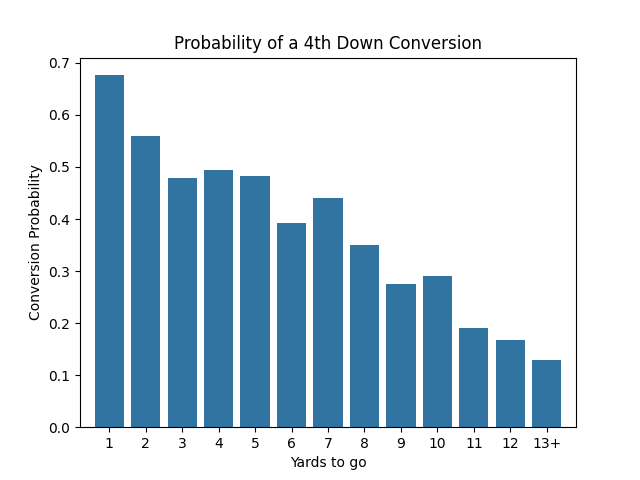
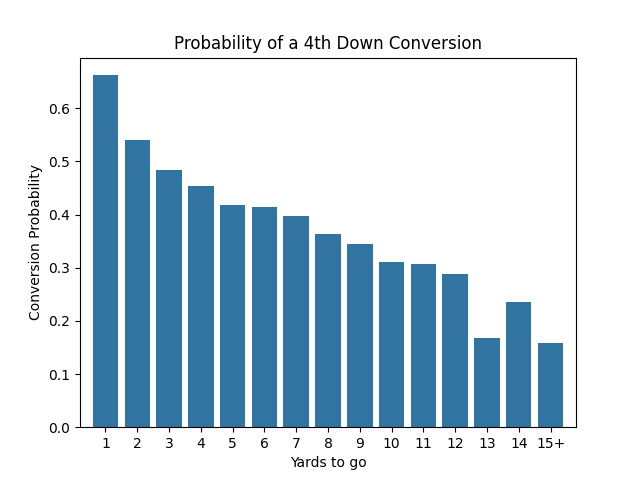
fix: fourth with all years and agg 15+ instead of 13+

diff --git a/fourth_convert.py b/fourth_convert.py
@@ -7,6 +7,30 @@ from matplotlib.ticker import FuncFormatter
 
 
 CACHE = "cache/"
+YEARS = [
+    2002,
+    2003,
+    2004,
+    2005,
+    2006,
+    2007,
+    2008,
+    2009,
+    2010,
+    2011,
+    2012,
+    2013,
+    2014,
+    2015,
+    2016,
+    2017,
+    2018,
+    2019,
+    2020,
+    2021,
+    2022,
+    2023,
+]
 
 
 FOURTH_GO_FOR_IT = [cols.PlayType.PASS, cols.PlayType.RUN]
@@ -25,17 +49,17 @@ def fourth_down(df: pandas.DataFrame) -> pandas.DataFrame:
 
 def fourth_agg_ten(df: pandas.DataFrame) -> pandas.DataFrame:
     """
-    Aggregate all 4th and 10 or greater to the same bucket.
+    Aggregate all 4th and 15 or greater to the same bucket.
     """
-    df[cols.Ydstogo.header] = (df[cols.Ydstogo.header] < 13) * df[
+    df[cols.Ydstogo.header] = (df[cols.Ydstogo.header] < 15) * df[
         cols.Ydstogo.header
-    ] + (df[cols.Ydstogo.header] >= 13) * 13
+    ] + (df[cols.Ydstogo.header] >= 15) * 15
     return df
 
 
 def formatter(x, tick):
-    if x == 12:
-        return "13+"
+    if x == 14:
+        return "15+"
     else:
         return f"{int(x+1)}"
 
@@ -45,13 +69,13 @@ def plot_data(df: pandas.DataFrame):
     plt.title("Probability of a 4th Down Conversion")
     plt.xlabel("Yards to go")
     plt.ylabel("Conversion Probability")
-    plt.xlim(-0.8, 12.8)
+    plt.xlim(-0.8, 14.8)
     plt.gca().xaxis.set_major_formatter(FuncFormatter(formatter))
     plt.savefig("figs/fourth_convert")
     plt.show()
 
 
-df = pbp.get([2021, 2022, 2023], CACHE)
+df = pbp.get(YEARS, CACHE)
 df = fourth_down(df)
 df = fourth_agg_ten(df)
 plot_data(df)
